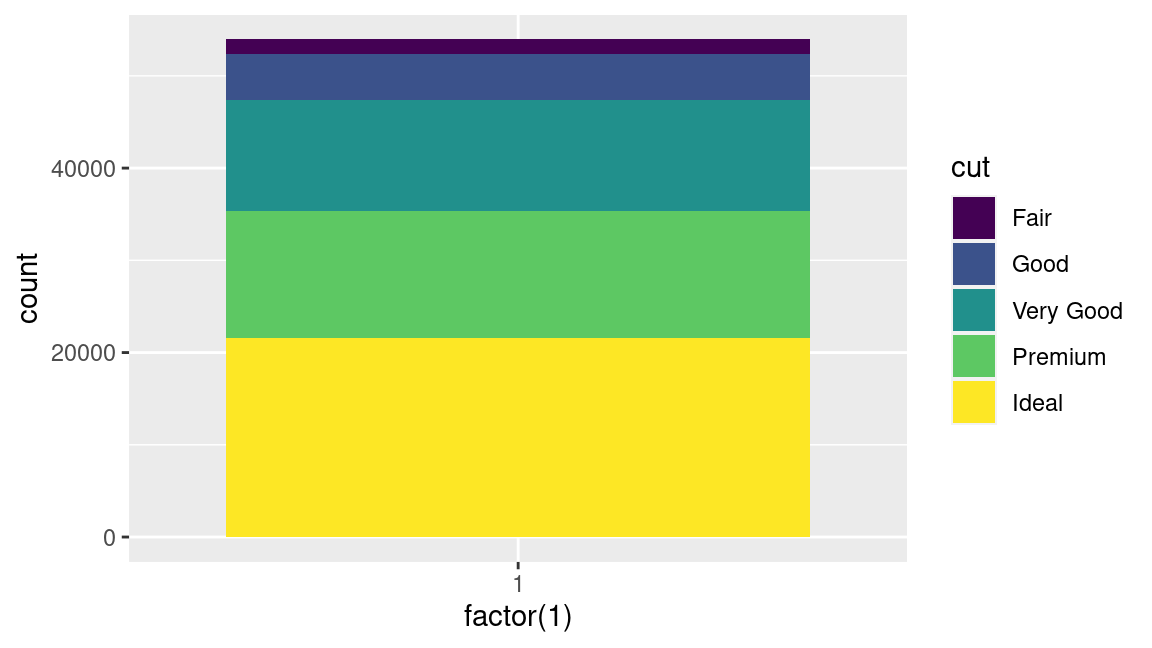
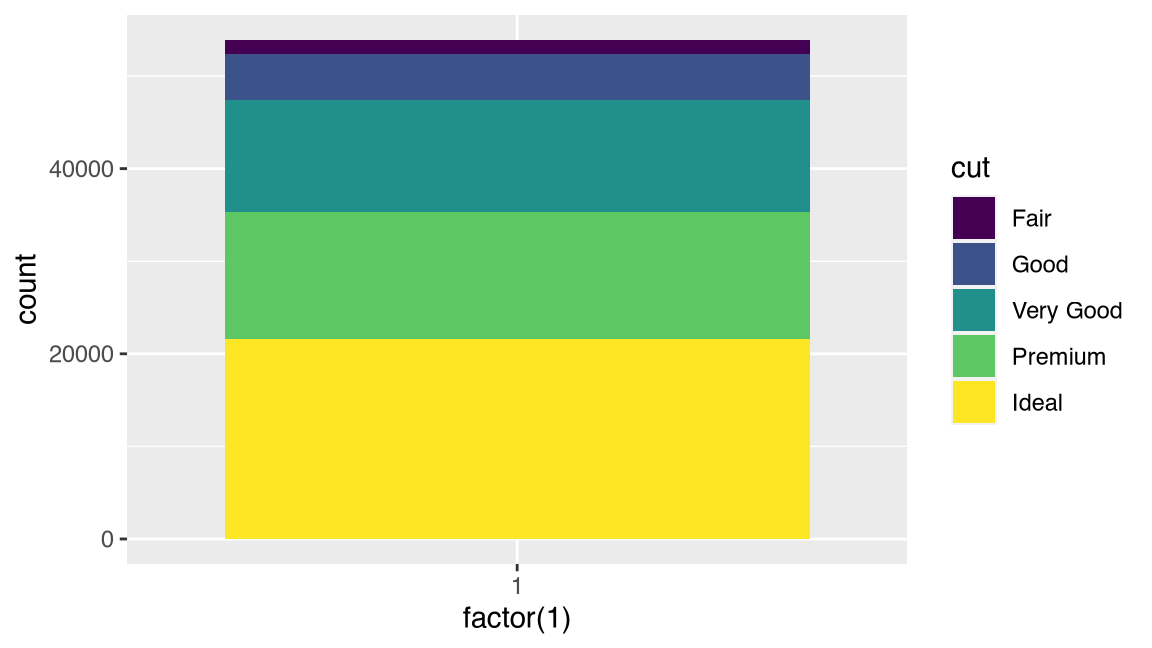
chore: name unnamed chunk

diff --git a/notes/week-02/04-grammar-of-graphics/04-grammar-of-graphics.md b/notes/week-02/04-grammar-of-graphics/04-grammar-of-graphics.md
@@ -305,7 +305,7 @@ diamonds |>
   )
 ```
 
-<img src="img/unnamed-chunk-1-1.png" width="100%" style="display: block; margin: auto;" />
+<img src="img/stat-diamonds-3-1.png" width="100%" style="display: block; margin: auto;" />
 Mastering the different **`geom`** and **`stat`** layer functions will
 let you create sophisticated data visualizations with ease as you can
 build your plot up layer by layer.
